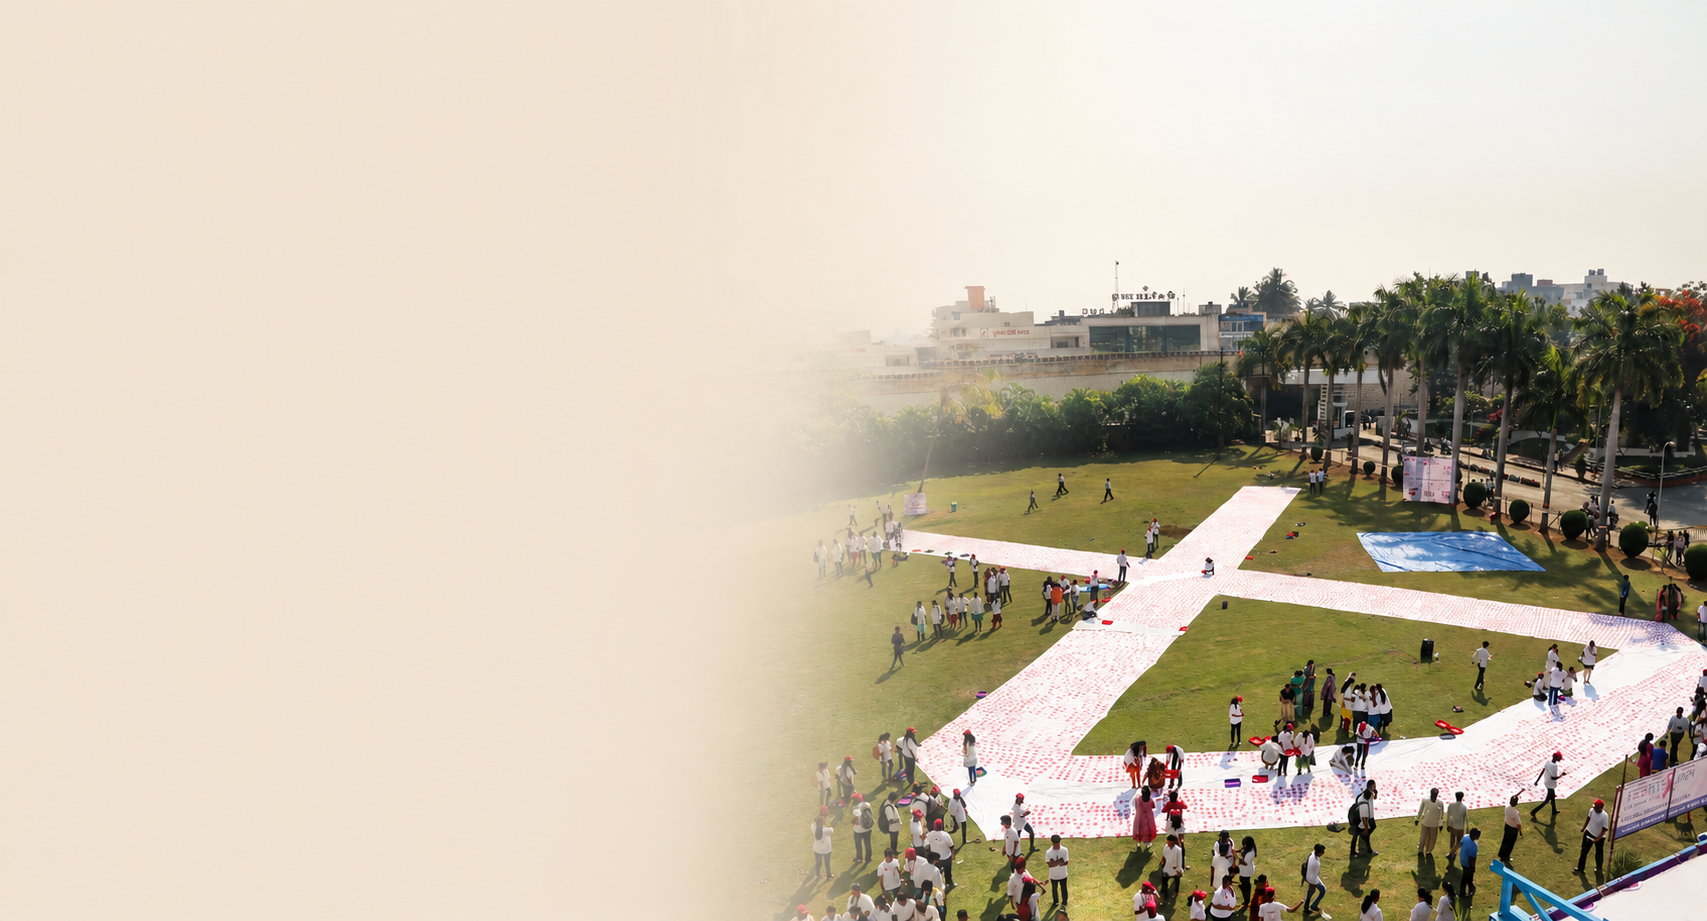
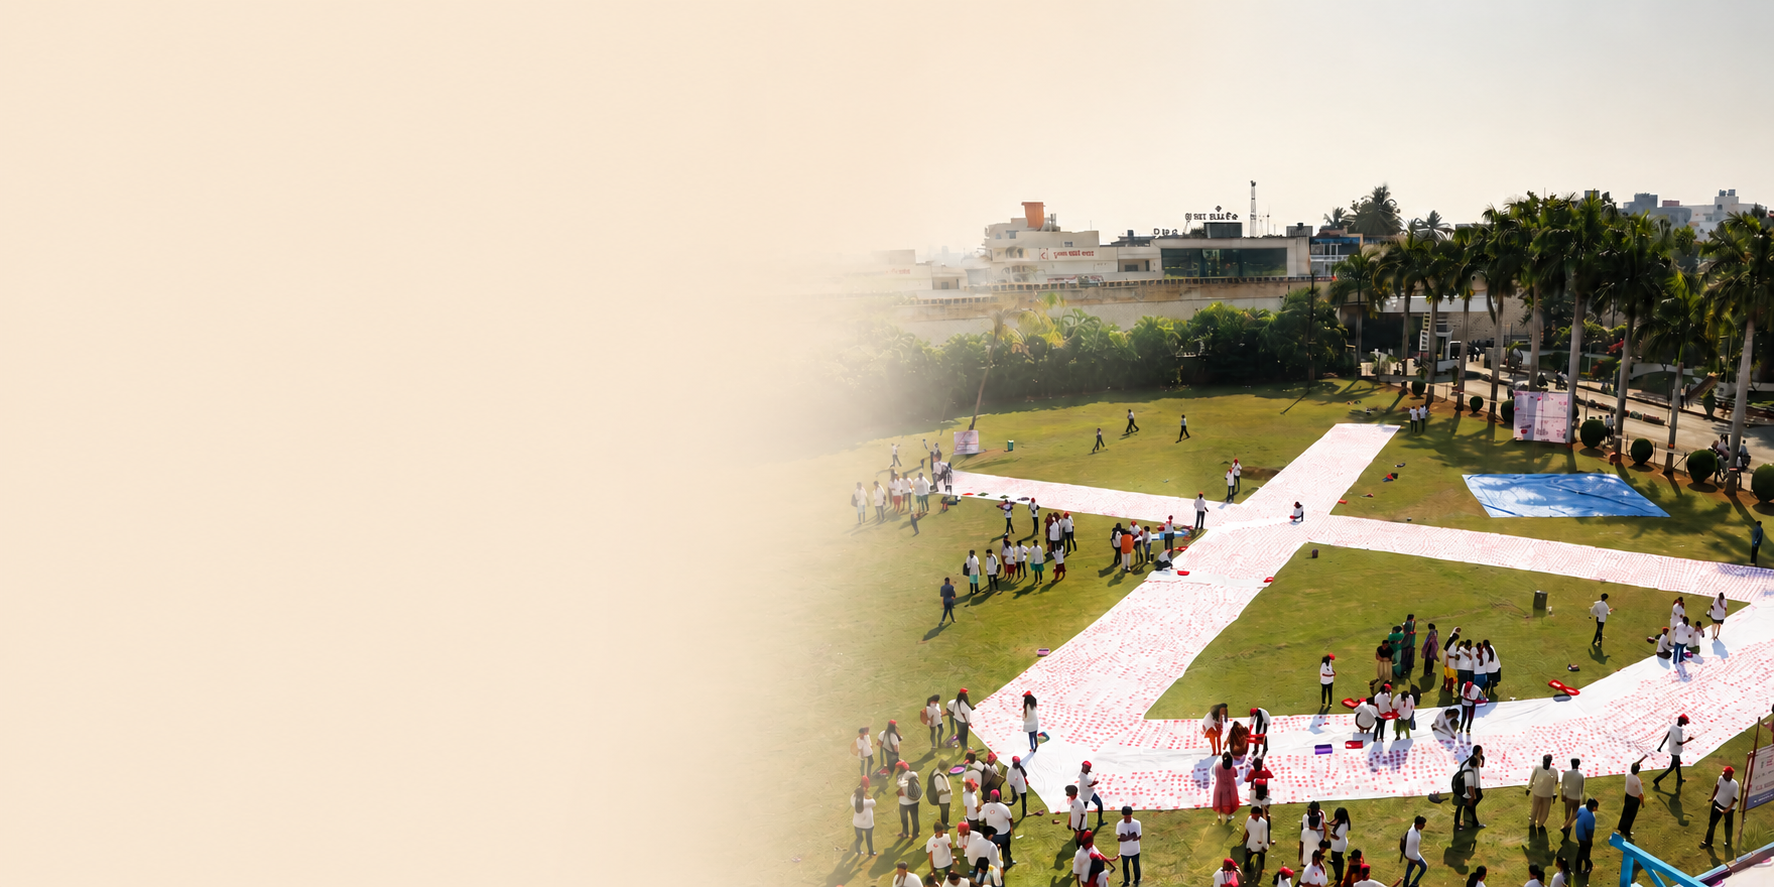
review and minor changes

Changed region(s): [[0.4657, 0.2131, 1.0, 1.0], [0.8694, 0.0, 1.0, 0.1218], [0.621, 0.0, 0.652, 0.0304]]

diff --git a/src/media/mediaData.js b/src/media/mediaData.js
@@ -106,7 +106,7 @@ Representing Zuvius Lifesciences, Nimish Thakkar highlights the company's uncomp
       "Zuvius Lifesciences: Revolutionising Health with Affordable and Unique Oncology Solutions",
 
     image: "/newsroom/press-6.png",
-    heroImage: "/newsroom/ceo-article.jpg",
+    heroImage: "/newsroom/hero-7.png",
 
     excerpt:
       "A feature highlighting Zuvius Lifesciences' journey as a research-driven oncology company.",
@@ -165,7 +165,7 @@ The feature also outlines the company's perspective on the pharmaceutical indust
       "Zuvius Lifesciences Aims to be Among the Top Five Most Trusted Companies Across the Globe",
 
     image: "/newsroom/press-1.png",
-    heroImage: "/newsroom/brandhonchos.jpg",
+    heroImage: "/newsroom/hero-4.png",
 
     excerpt:
       "A Brand Honchos feature highlighting Zuvius Lifesciences' growth journey and future aspirations.",
@@ -343,7 +343,7 @@ Zuvius Lifesciences’ campaign is positioned as part of wider CSR-driven effort
   title: "Blaze of Brilliance",
 
   image: "/newsroom/press-5.png",
-  heroImage: "/newsroom/wecanserve-cover.jpg",
+  heroImage: "/newsroom/hero-6.png",
 
   excerpt:
     "A special We Canserve magazine cover issue exploring innovation, healthcare startups, wellness, and expert perspectives shaping the oncology ecosystem.",
@@ -405,7 +405,7 @@ Overall, the publication positions itself as a knowledge-driven platform for onc
     "Indian Pharmaceutical Giant Zuvius Lifesciences Shows Interest to Invest in Ethiopia",
 
   image: "/newsroom/press-2.png",
-  heroImage: "/newsroom/fbc-ethiopia.jpg",
+  heroImage: "/newsroom/hero-5.png",
 
   excerpt:
     "An FBC report covering Zuvius Lifesciences' discussions with the Ethiopian Investment Commission regarding investment opportunities in Ethiopia's pharmaceutical sector.",
@@ -467,7 +467,7 @@ The report highlights Ethiopia's efforts to attract international pharmaceutical
     "Nimish G. Thakkar: A Self-Made Entrepreneur With Unquenchable Thirst to Learn",
 
   image: "/newsroom/press-4.png",
-  heroImage: "/newsroom/ceo-insights.jpg",
+  heroImage: "/newsroom/hero-8.png",
 
   excerpt:
     "A CEO Insights leadership interview featuring Nimish G. Thakkar's entrepreneurial journey, leadership philosophy, and commitment to innovation and quality.",

diff --git a/src/media/pressrelease.js b/src/media/pressrelease.js
@@ -109,7 +109,7 @@ const PressRelease = () => {
                   </span>
 
                   <span className="media-year">
-                    2025
+                    {item.year}
                   </span>
                 </div>
 
